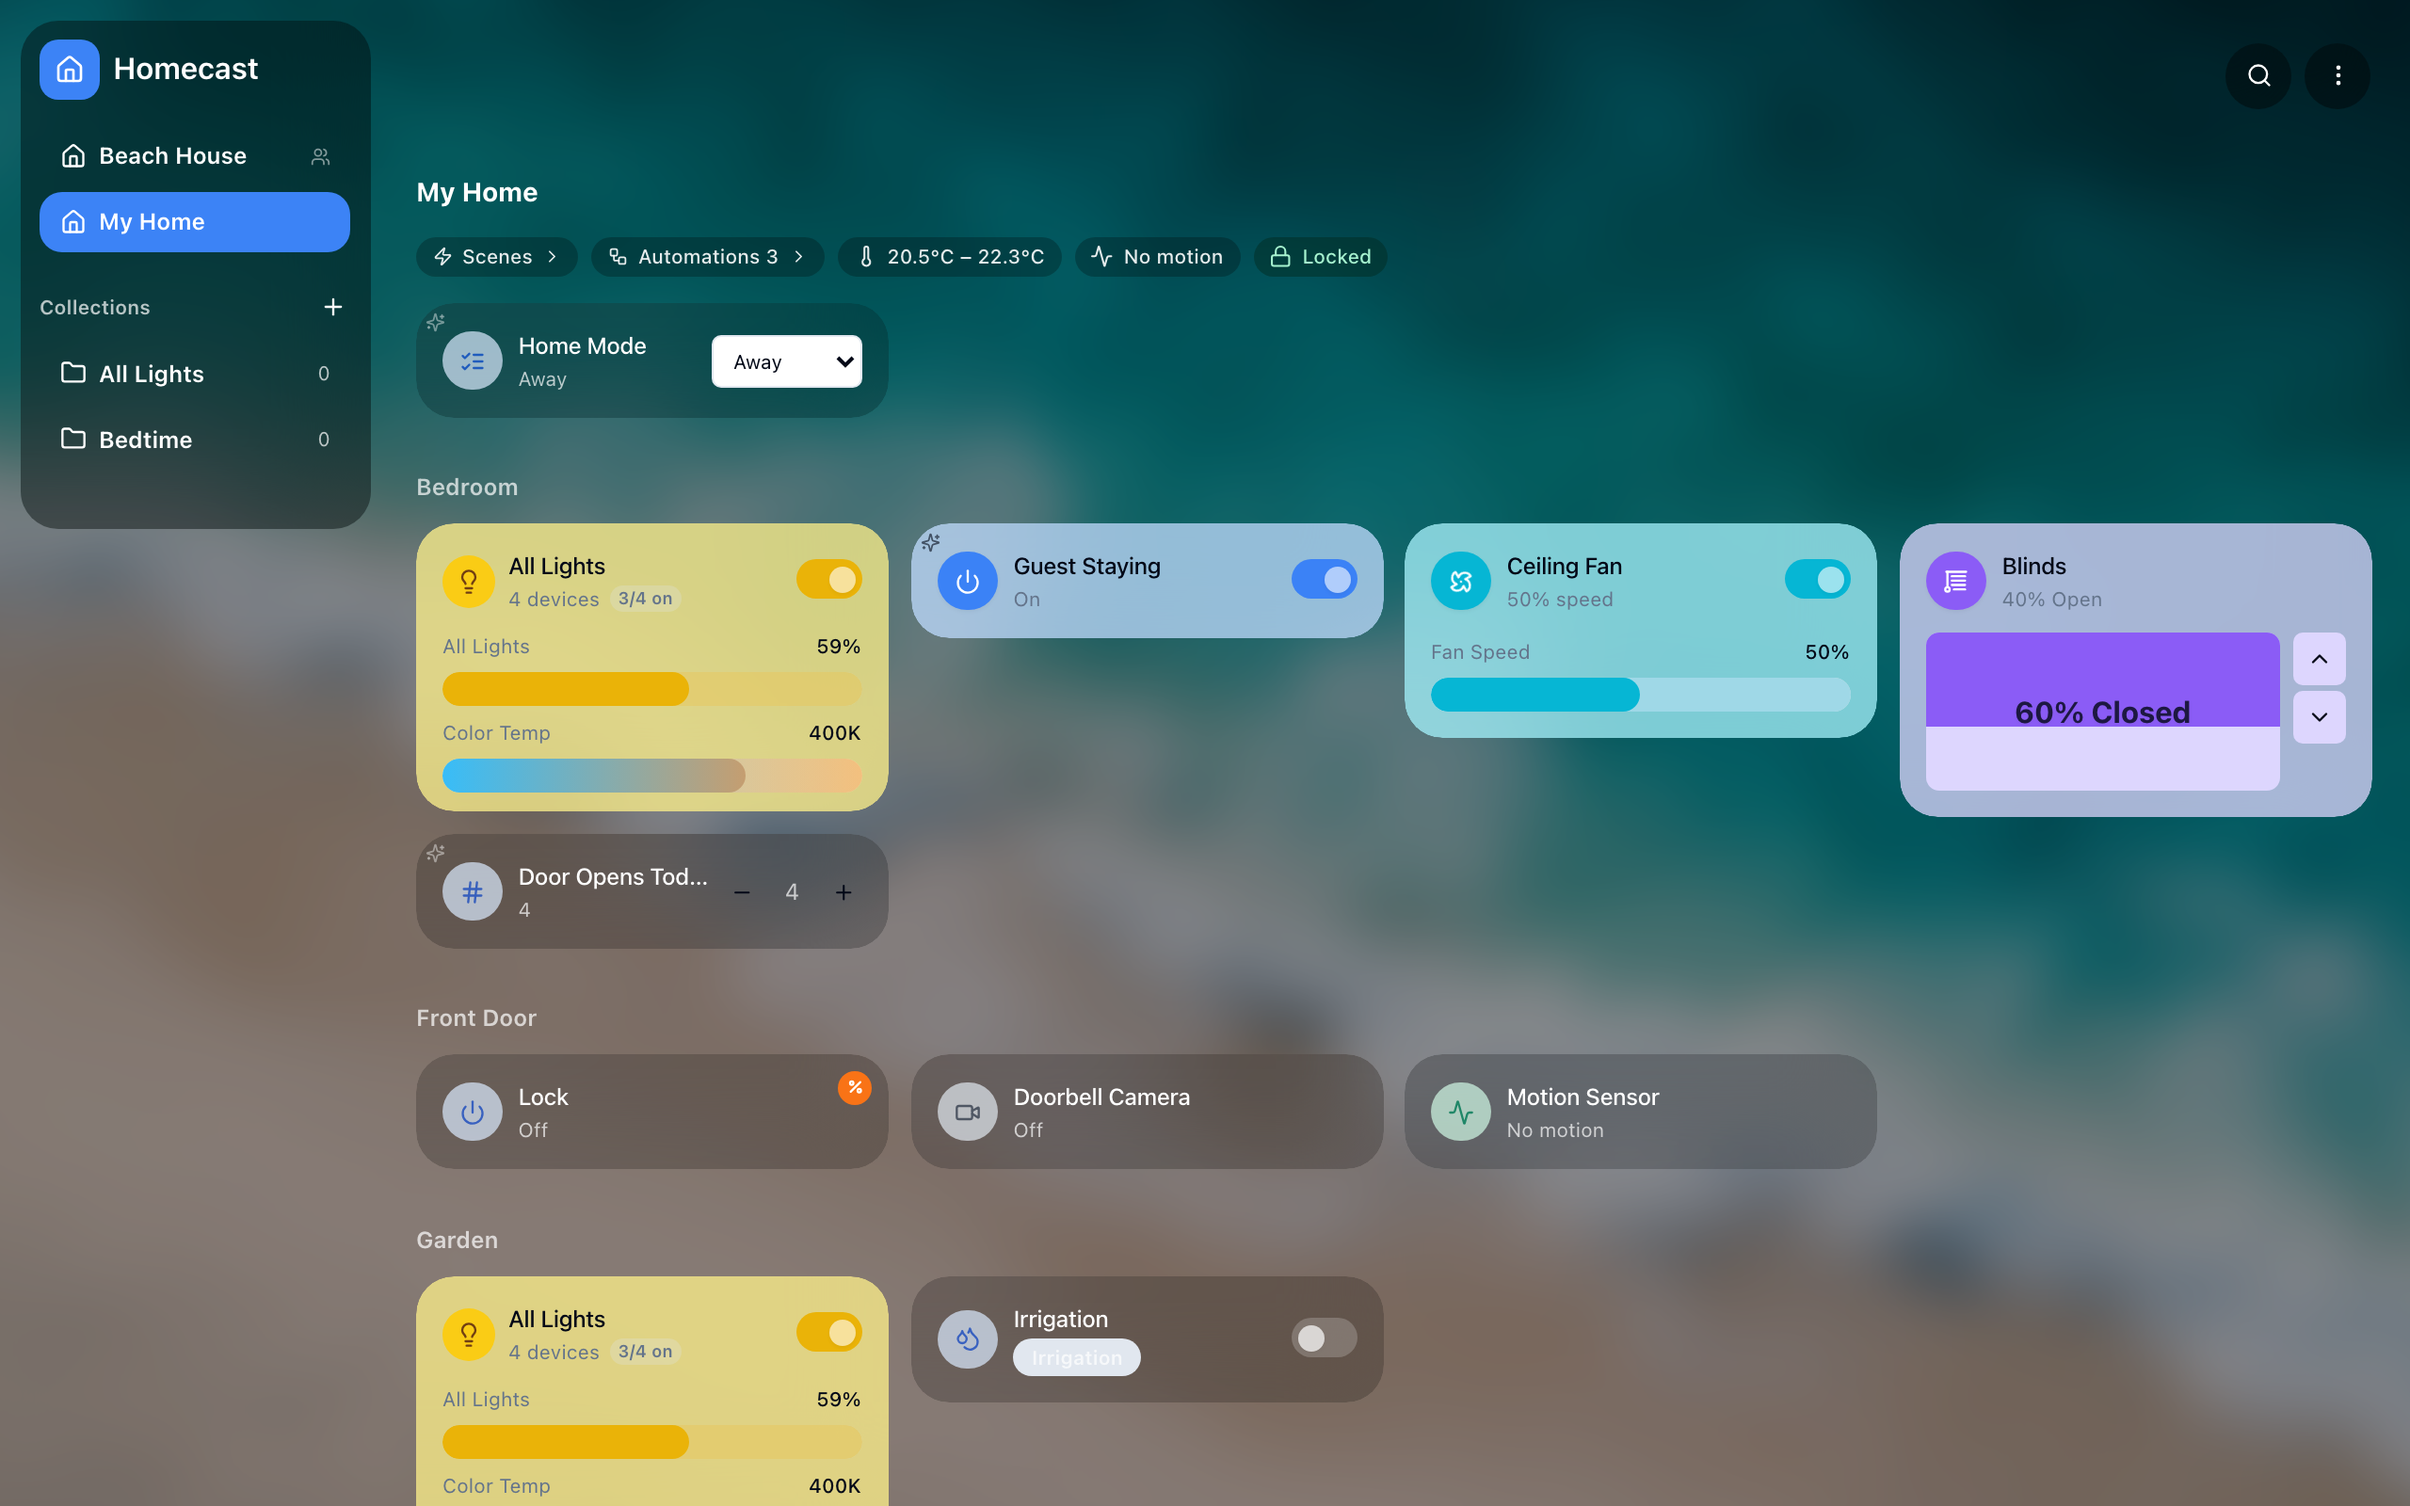
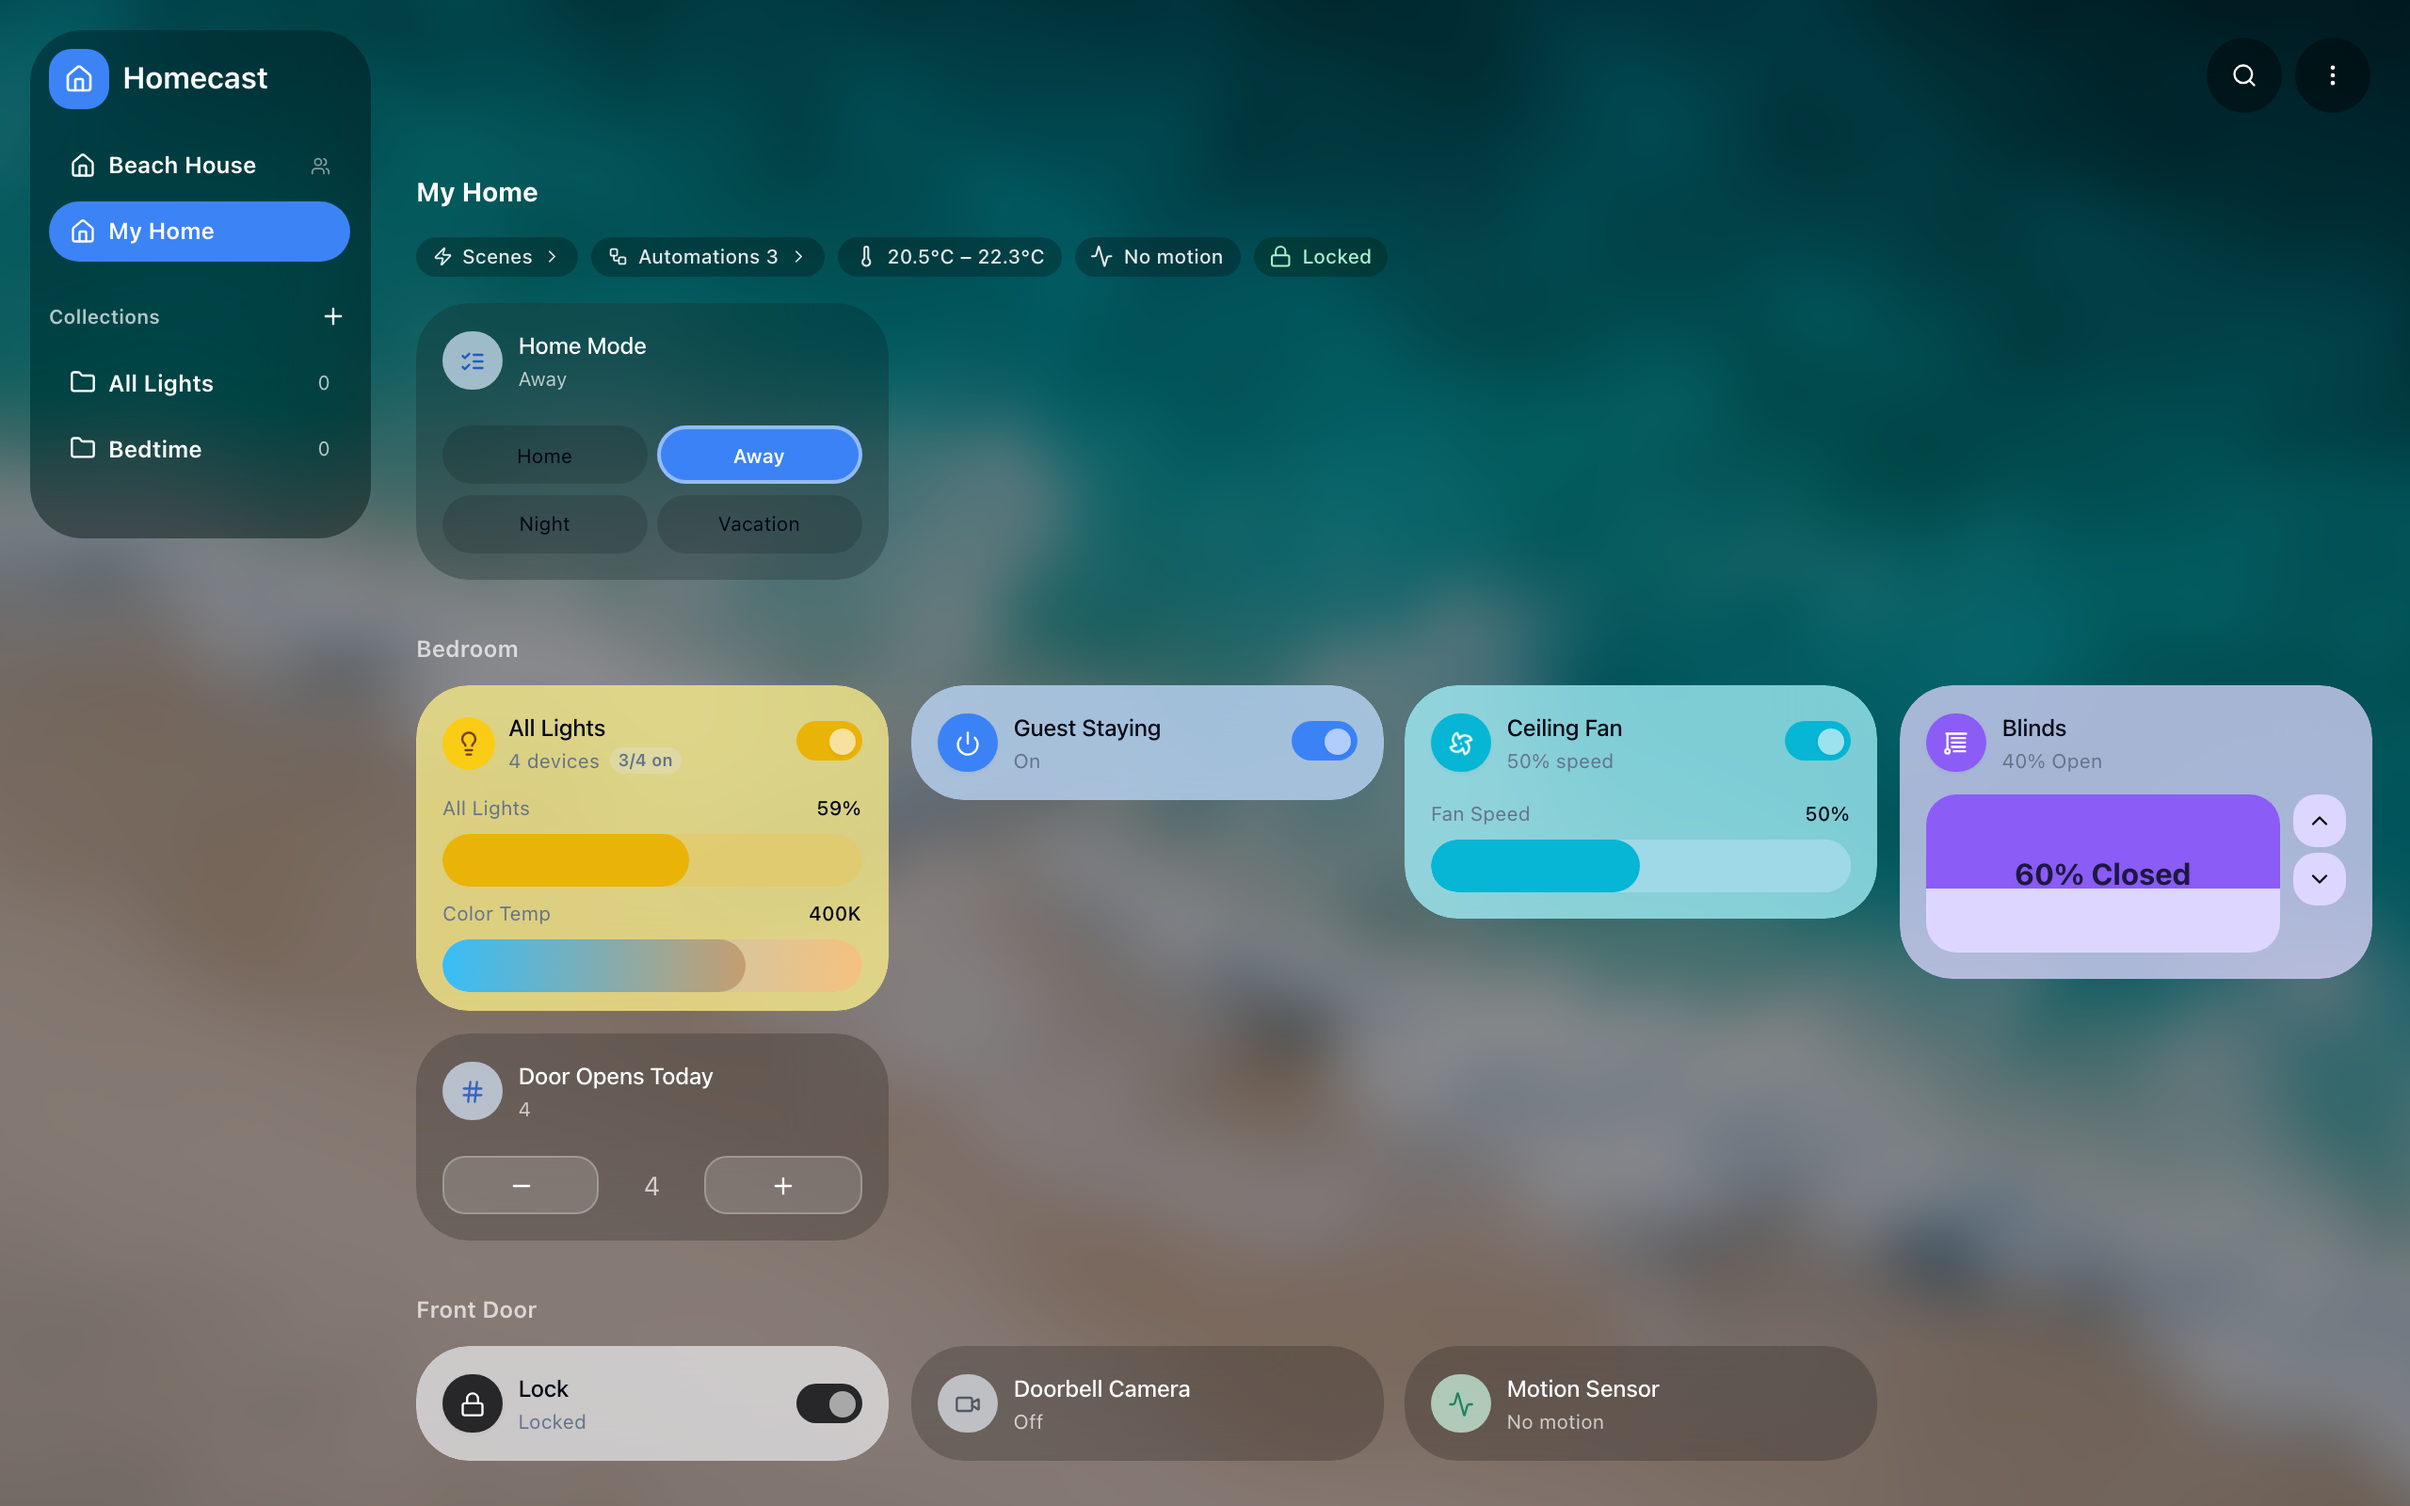
widgets: give mode and valve tiles the dashboard's own controls
Two tiles were wearing controls nothing else on the dashboard uses.

A helper's mode was a native <select> — a bordered rectangle with a system
chevron, sitting beside a fan's slider and a lock's switch. Every other
multi-choice control here is a row of pills, so short option lists become
one too, with the same selected treatment the alarm and thermostat modes
use. They wrap rather than truncate: "Vacat…" tells you less than a second
row costs. Long lists keep the select, where a dropdown is the better
control anyway.

Valve and irrigation tiles put their subtitle in filled badges, the only
cards on the dashboard with a chip under the name — and on a valve called
"Garden Irrigation" the chip said "Irrigation", which the title already
said. Plain text now, state first, with the type dropped when the name
ends with it.

Also refreshes the dashboard hero image, which still showed the old select.

Changed region(s): [[0.0312, 0.2188, 1.0, 1.0], [0.0, 0.0, 0.1562, 0.3438]]

diff --git a/src/components/widgets/VirtualAccessoryWidget.tsx b/src/components/widgets/VirtualAccessoryWidget.tsx
@@ -1,6 +1,6 @@
 import React, { memo } from 'react';
 import { Plus, Minus, Play, Square, ToggleLeft, ListChecks, Hash, Timer, SlidersHorizontal, Type, CalendarClock } from 'lucide-react';
-import { WidgetCard } from './WidgetCard';
+import { WidgetCard, useWidgetColors } from './WidgetCard';
 import { WidgetProps, parseCharacteristicValue } from './types';
 import { useBackgroundContext } from '@/contexts/BackgroundContext';
 import { useVirtualAccessoryDefinition } from './VirtualAccessoryEditContext';
@@ -44,6 +44,55 @@ function fieldClass(dark: boolean, large?: boolean): string {
       ? 'bg-white/15 border-white/25 text-white focus:border-white/50 [color-scheme:dark]'
       : 'bg-white/70 border-slate-300 text-slate-900 focus:border-slate-400 [color-scheme:light]');
 }
+
+/**
+ * A mode picker drawn the way the rest of the app draws one.
+ *
+ * A native `<select>` is a bordered rectangle with a system chevron. Beside a
+ * fan's slider and a lock's switch it reads as a form field dropped onto the
+ * dashboard, which is exactly what stood out. Every other multi-choice control
+ * here — alarm modes, thermostat modes, purifier modes — is a row of pills, so
+ * a short option list becomes one too, with the same selected treatment.
+ *
+ * Long lists keep the select: a dozen pills wrap into a block that buries the
+ * tile, and at that length a dropdown is genuinely the better control.
+ */
+const SEGMENTED_MAX_OPTIONS = 4;
+
+const ModeSegmented: React.FC<{
+  options: string[];
+  value: string;
+  onSelect: (v: string) => void;
+  label: string;
+  large?: boolean;
+}> = ({ options, value, onSelect, label, large }) => {
+  const { colors, iconStyle } = useWidgetColors();
+  const selected = iconStyle === 'colourful'
+    ? `${colors.accent} text-white ring-2 ring-inset ring-white/45`
+    : 'bg-primary hover:bg-primary/90 text-primary-foreground ring-2 ring-inset ring-white/45';
+
+  return (
+    // Wraps rather than truncates: mode names are the author's own words, and
+    // "Vacat…" tells you less than a second row costs.
+    <div className="flex flex-wrap gap-1.5" role="group" aria-label={label}>
+      {options.map(o => {
+        const isActive = o === value;
+        return (
+          <button
+            key={o}
+            type="button"
+            aria-pressed={isActive}
+            onClick={e => { e.stopPropagation(); onSelect(o); }}
+            className={`flex-1 basis-[5.5rem] truncate rounded-lg px-2 transition-colors ${large ? 'h-11 text-[14px]' : 'h-9 text-xs'} `
+              + (isActive ? `${selected} font-semibold` : 'bg-black/15 hover:bg-black/25 font-normal')}
+          >
+            {o}
+          </button>
+        );
+      })}
+    </div>
+  );
+};
 
 function buttonClass(dark: boolean, large?: boolean): string {
   return `${large ? 'h-11' : 'h-9'} inline-flex items-center justify-center gap-1.5 rounded-md border px-2.5 `
@@ -204,23 +253,35 @@ export const VirtualAccessoryWidget: React.FC<WidgetProps> = memo((props) => {
 
   function renderControl(): React.ReactNode {
     switch (charType) {
-      case 'virtual_mode':
+      case 'virtual_mode': {
+        const options = meta.virtualOptions ?? [];
+        const current = typeof value === 'string' ? value : '';
+        // A value that is no longer an option still has to show, or the tile
+        // would misrepresent the current mode.
+        const shown = current && !options.includes(current) ? [current, ...options] : options;
+        if (shown.length > 1 && shown.length <= SEGMENTED_MAX_OPTIONS) {
+          return (
+            <ModeSegmented
+              options={shown}
+              value={current}
+              onSelect={set}
+              label={`Set ${accessory.name}`}
+              large={expanded}
+            />
+          );
+        }
         return (
           <select
             className={FIELD_CLASS}
             aria-label={`Set ${accessory.name}`}
-            value={typeof value === 'string' ? value : ''}
+            value={current}
             onClick={e => e.stopPropagation()}
             onChange={e => set(e.target.value)}
           >
-            {/* A value that is no longer an option still has to show, or the
-                tile would misrepresent the current mode. */}
-            {typeof value === 'string' && value && !(meta.virtualOptions ?? []).includes(value) && (
-              <option value={value}>{value}</option>
-            )}
-            {(meta.virtualOptions ?? []).map(o => <option key={o} value={o}>{o}</option>)}
+            {shown.map(o => <option key={o} value={o}>{o}</option>)}
           </select>
         );
+      }
 
       case 'virtual_count':
       case 'virtual_number':

diff --git a/src/components/widgets/ValveWidget.tsx b/src/components/widgets/ValveWidget.tsx
@@ -1,6 +1,5 @@
 import React, { memo } from 'react';
-import { Droplets, Timer } from 'lucide-react';
-import { Badge } from '@/components/ui/badge';
+import { Droplets } from 'lucide-react';
 import { WidgetCard } from './WidgetCard';
 import { SliderControl, ColoredSwitch, CircleControl } from './shared';
 import { WidgetProps, getCharacteristic } from './types';
@@ -54,6 +53,8 @@ export const ValveWidget: React.FC<WidgetProps> = memo(({
     return secs > 0 ? `${mins}m ${secs}s` : `${mins}m`;
   };
 
+  const typeLabel = VALVE_TYPES[valveType] || 'Valve';
+
   const showHero = !!expanded && !compact && !!activeChar?.isWritable;
 
   return (
@@ -71,19 +72,19 @@ export const ValveWidget: React.FC<WidgetProps> = memo(({
         />
       ) : undefined}
       title={accessory.name}
-      subtitle={
-        <span className="flex items-center gap-2">
-          <Badge variant={inUse ? 'default' : 'secondary'}>
-            {VALVE_TYPES[valveType] || 'Valve'}
-          </Badge>
-          {inUse && remaining && (
-            <span className="text-xs text-muted-foreground flex items-center gap-1">
-              <Timer className="h-3 w-3" />
-              {formatDuration(remaining)}
-            </span>
-          )}
-        </span>
-      }
+      // Plain text, like every other tile. A filled badge made this the one
+      // widget wearing a chip under its name, and what the chip said was the
+      // valve type — which on a valve actually called "Irrigation" was the
+      // name again. State first, as everywhere else; the type only earns a
+      // place when it tells you something the name hasn't already.
+      subtitle={[
+        inUse ? 'Running' : 'Off',
+        // "Garden Irrigation" is shown as "Irrigation" once the card strips the
+        // room, so match the tail rather than the whole name — otherwise the
+        // subtitle repeats the title back at you.
+        accessory.name.trim().toLowerCase().endsWith(typeLabel.toLowerCase()) ? null : typeLabel,
+        inUse && remaining ? formatDuration(remaining) : null,
+      ].filter(Boolean).join(' · ')}
       icon={<Droplets className={`h-4 w-4 ${inUse ? 'text-blue-500' : ''}`} />}
       serviceType="valve"
       iconStyle={iconStyle}

diff --git a/src/components/widgets/IrrigationWidget.tsx b/src/components/widgets/IrrigationWidget.tsx
@@ -1,6 +1,5 @@
 import React, { memo } from 'react';
 import { Flower2, Timer, Droplets, Calendar } from 'lucide-react';
-import { Badge } from '@/components/ui/badge';
 import { Progress } from '@/components/ui/progress';
 import { WidgetCard } from './WidgetCard';
 import { ColoredSwitch } from './shared';
@@ -56,19 +55,12 @@ export const IrrigationWidget: React.FC<WidgetProps> = memo(({
   return (
     <WidgetCard
       title={accessory.name}
-      subtitle={
-        <span className="flex items-center gap-2 flex-wrap">
-          <Badge variant={inUse ? 'default' : 'secondary'}>
-            {inUse ? 'Watering' : 'Idle'}
-          </Badge>
-          {programMode > 0 && (
-            <Badge variant="outline" className="gap-1">
-              <Calendar className="h-3 w-3" />
-              {PROGRAM_MODES[programMode]}
-            </Badge>
-          )}
-        </span>
-      }
+      // Plain text, like every other tile's subtitle. Badges made this one the
+      // only widget on the dashboard wearing filled pills under its name, which
+      // read as a status chip bolted on rather than part of the card.
+      subtitle={[inUse ? 'Watering' : 'Idle', programMode > 0 ? PROGRAM_MODES[programMode] : null]
+        .filter(Boolean)
+        .join(' · ')}
       icon={
         <Flower2 className={`h-4 w-4 ${inUse ? 'text-green-500' : ''}`} />
       }
